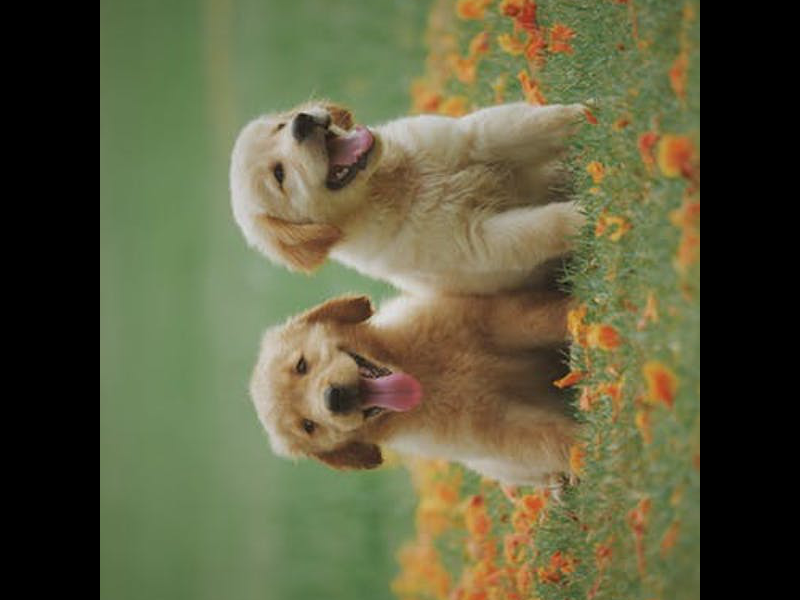
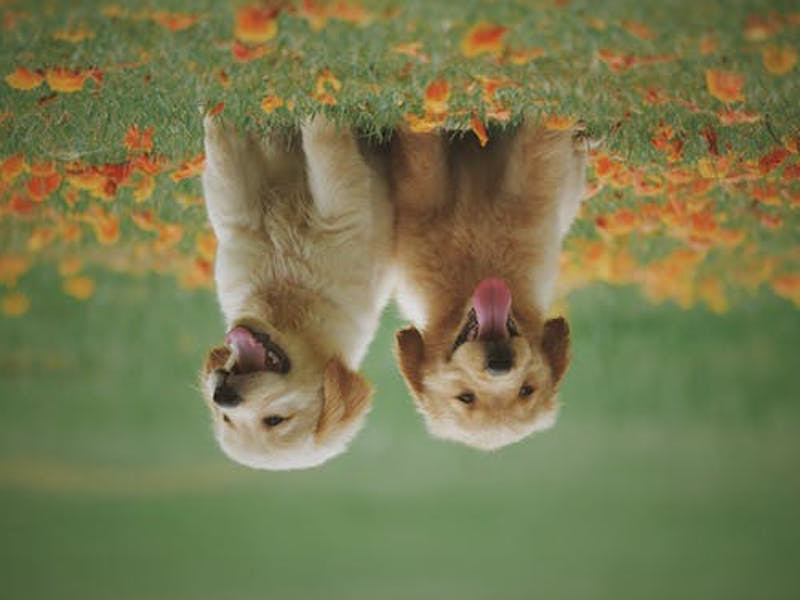
added flip button (bugged)

diff --git a/ImageApp/imageManipulation.py b/ImageApp/imageManipulation.py
@@ -19,15 +19,13 @@ dragging = False
 buttons=[]
 sliders=[]
 arrows=[]
-arrowTitles=["rot L", "rot R","flip L", "flip R"]
+arrowTitles=["rot L", "rot R","flip"]
 titles=["Black & White","Blur","Invert","Sharpen","Edge Detection","Sepia","Reset", "New Image"]
 sliderTitles=["Saturation", "Brightness"]
 #fonts
 myfont = pygame.font.SysFont('ArialBold', 24)
 #colors
 white=(255 ,255, 255)
-
-#image
 
 FILENAME = "dog.png"
 
@@ -42,7 +40,8 @@ BUTTON_IMG = pygame.image.load("button.png")
 IMAGE_CURRENT = IMAGE_ORIGINAL
 ARROW_RIGHT_IMG=pygame.image.load("blueArrowRight.png")
 ARROW_LEFT_IMG=pygame.image.load("blueArrowLeft.png")
-arrowImages = [ARROW_LEFT_IMG, ARROW_RIGHT_IMG]
+ARROW_FLIP_IMG= pygame.image.load("flip.png")
+arrowImages = [ARROW_LEFT_IMG, ARROW_RIGHT_IMG,ARROW_FLIP_IMG]
 
 class Button:
     def __init__(self, x, y, title):
@@ -58,7 +57,7 @@ class Arrow:
         self.x = x
         self.y = y
         self.w = 75
-        self.h = 70
+        self.h = 75
 
 class Slider:
     def __init__(self, x, y, title):
@@ -86,7 +85,7 @@ for i in range(8):
     button = Button(820,100+i * 75,titles[i])
     buttons.append(button)
 
-for i in range(2):
+for i in range(3):
     arrow = Arrow(465+i*80,620, arrowTitles[i])
     arrows.append(arrow)
 
@@ -95,7 +94,6 @@ for i in range(2):
 #Menu screen functions
 def drawUI():
     for i in range(len(arrows)):
-
         screen.blit(arrowImages[i],(arrows[i].x,arrows[i].y))
 
     for slider in sliders:
@@ -251,6 +249,12 @@ def checkArrow(mouse_x, mouse_y):
                 IMAGE_CURRENT = pygame.image.load(rotatedPhotoR)
                 IMAGE_CURRENT = scaledImage(IMAGE_CURRENT)
                 PREV_FILENAME = rotatedPhotoR
+            if arrow.title == "flip":
+                mirroredPhoto = filters.flip(PREV_FILENAME)
+                IMAGE_CURRENT = pygame.image.load(mirroredPhoto)
+                IMAGE_CURRENT = scaledImage(IMAGE_CURRENT)
+                PREV_FILENAME = rotatedPhotoR
+            
 
 
 running = True

diff --git a/ImageApp/filters.py b/ImageApp/filters.py
@@ -108,6 +108,12 @@ def rotation(filename):
     img2.save(new_name)
     return new_name
 
+def flip(filename):
+    new_name = "mirrored.png"
+    img = Image.open(filename)
+    img = PIL.ImageOps.mirror(img)
+    img.save(new_name)
+
 def exampleFilters(filename):
     img = Image.open("dogs.jpg")
     width, height = img.size
